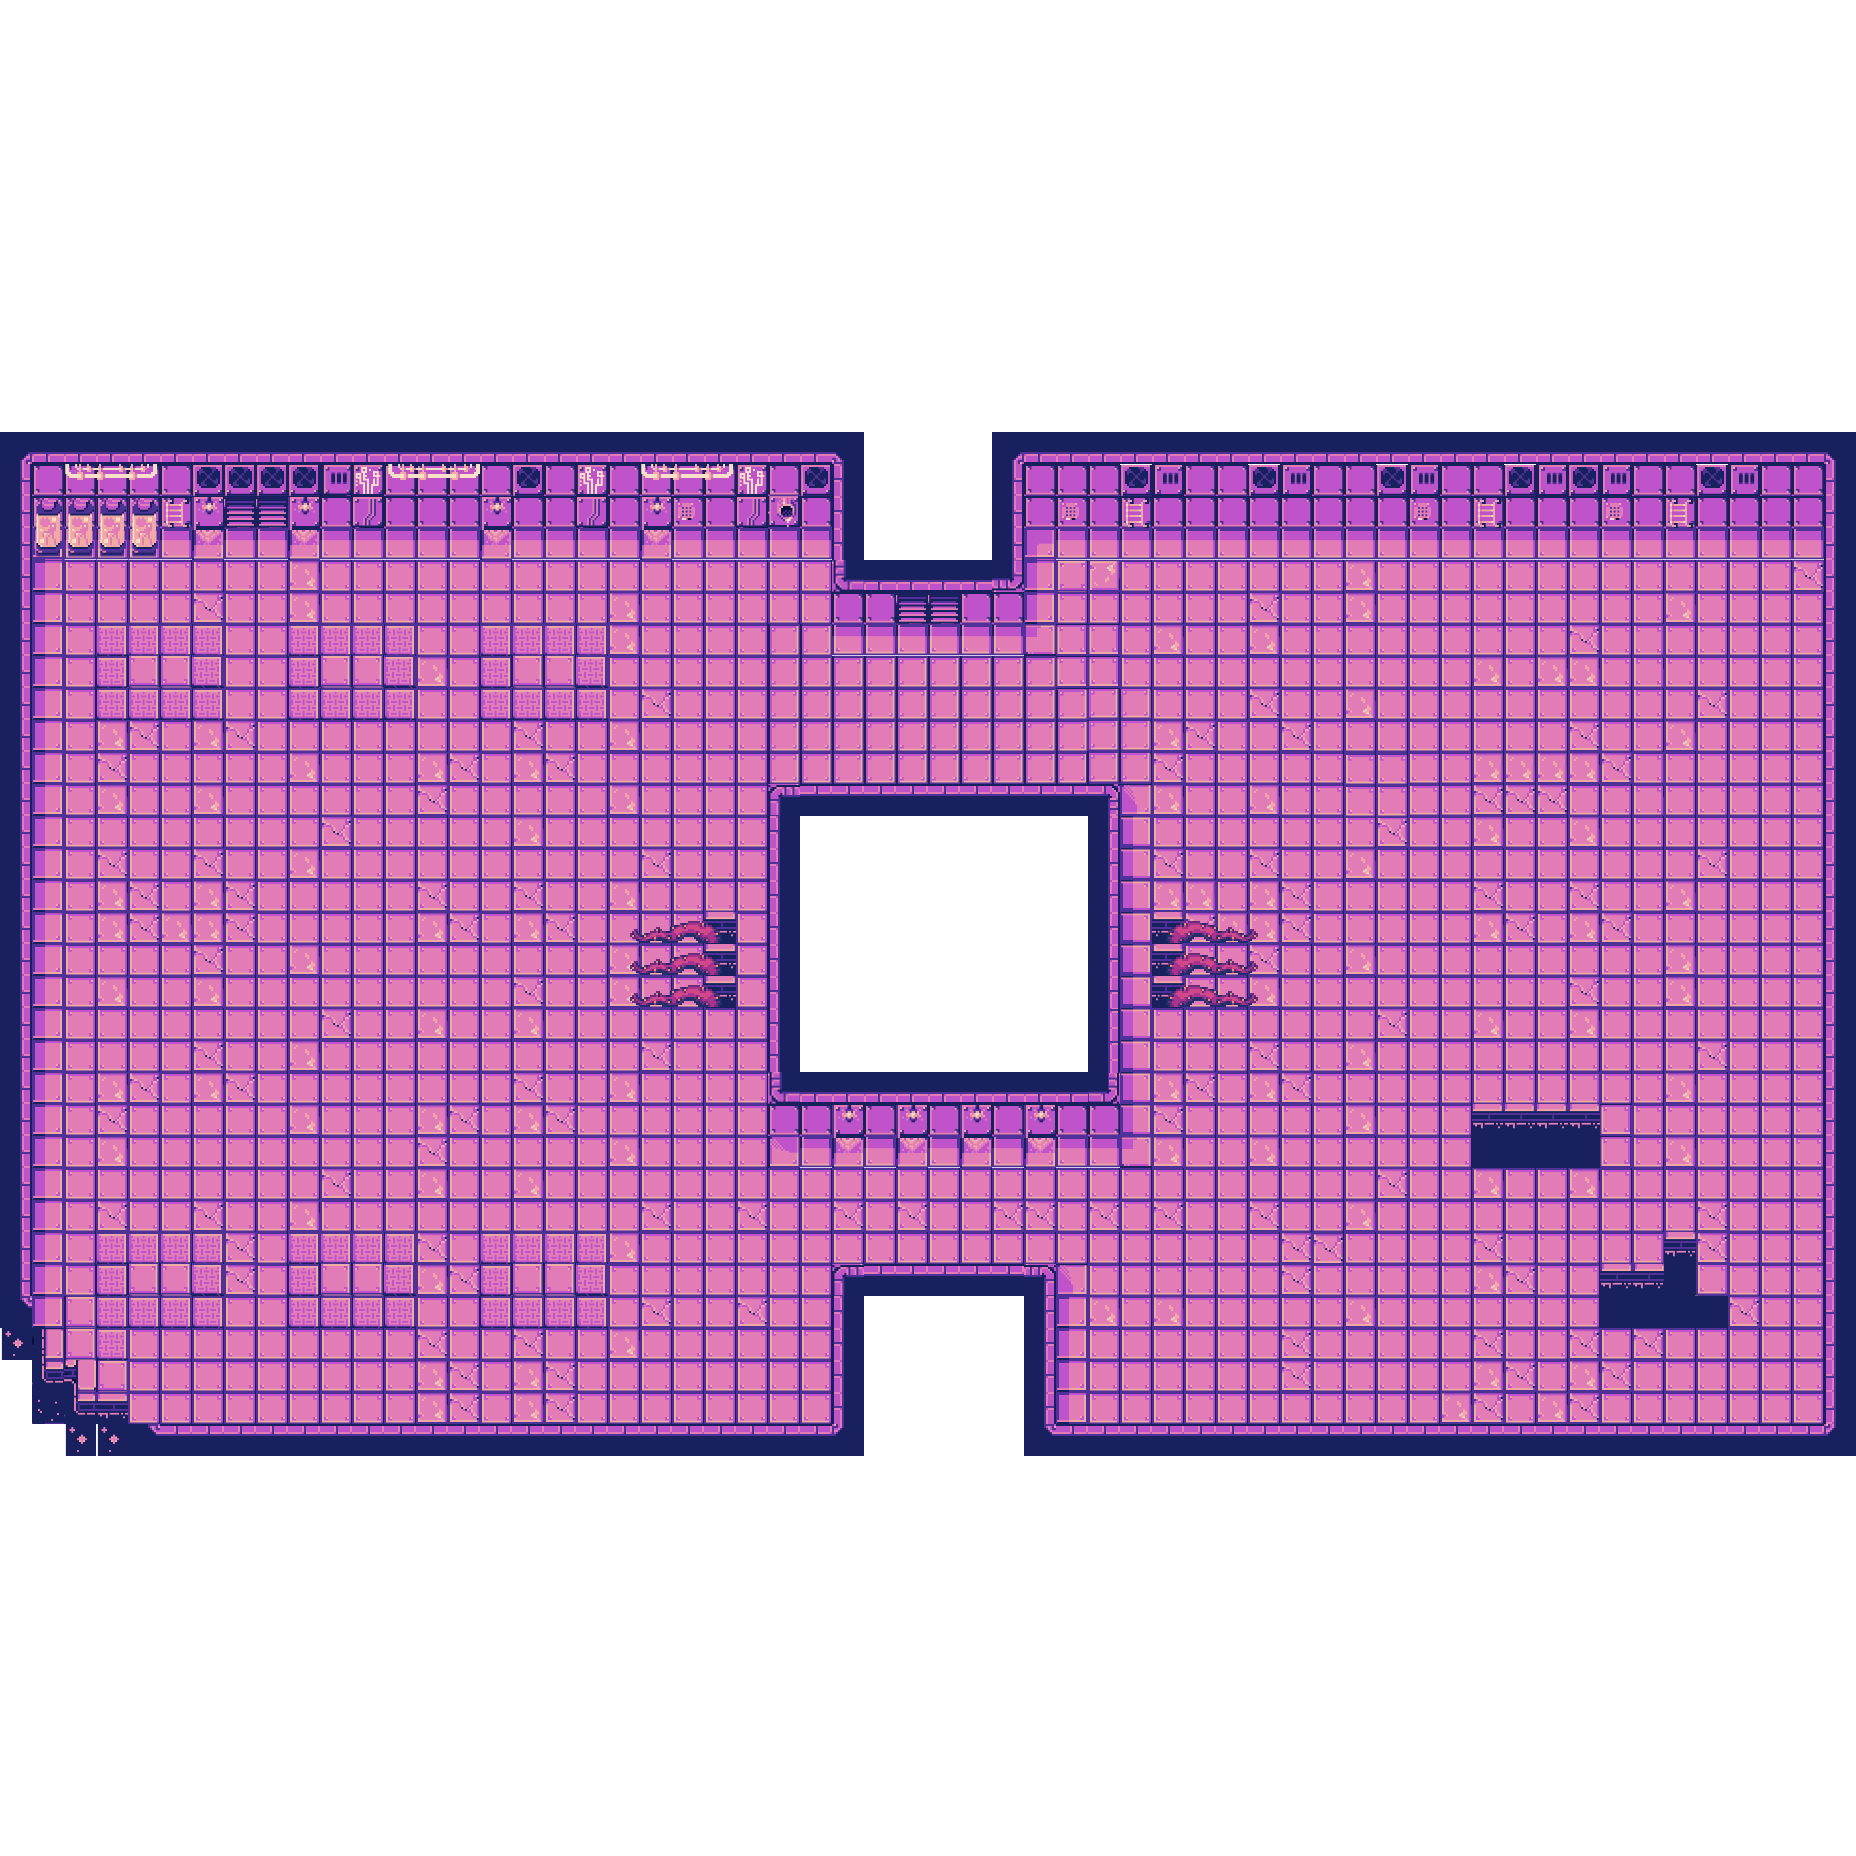
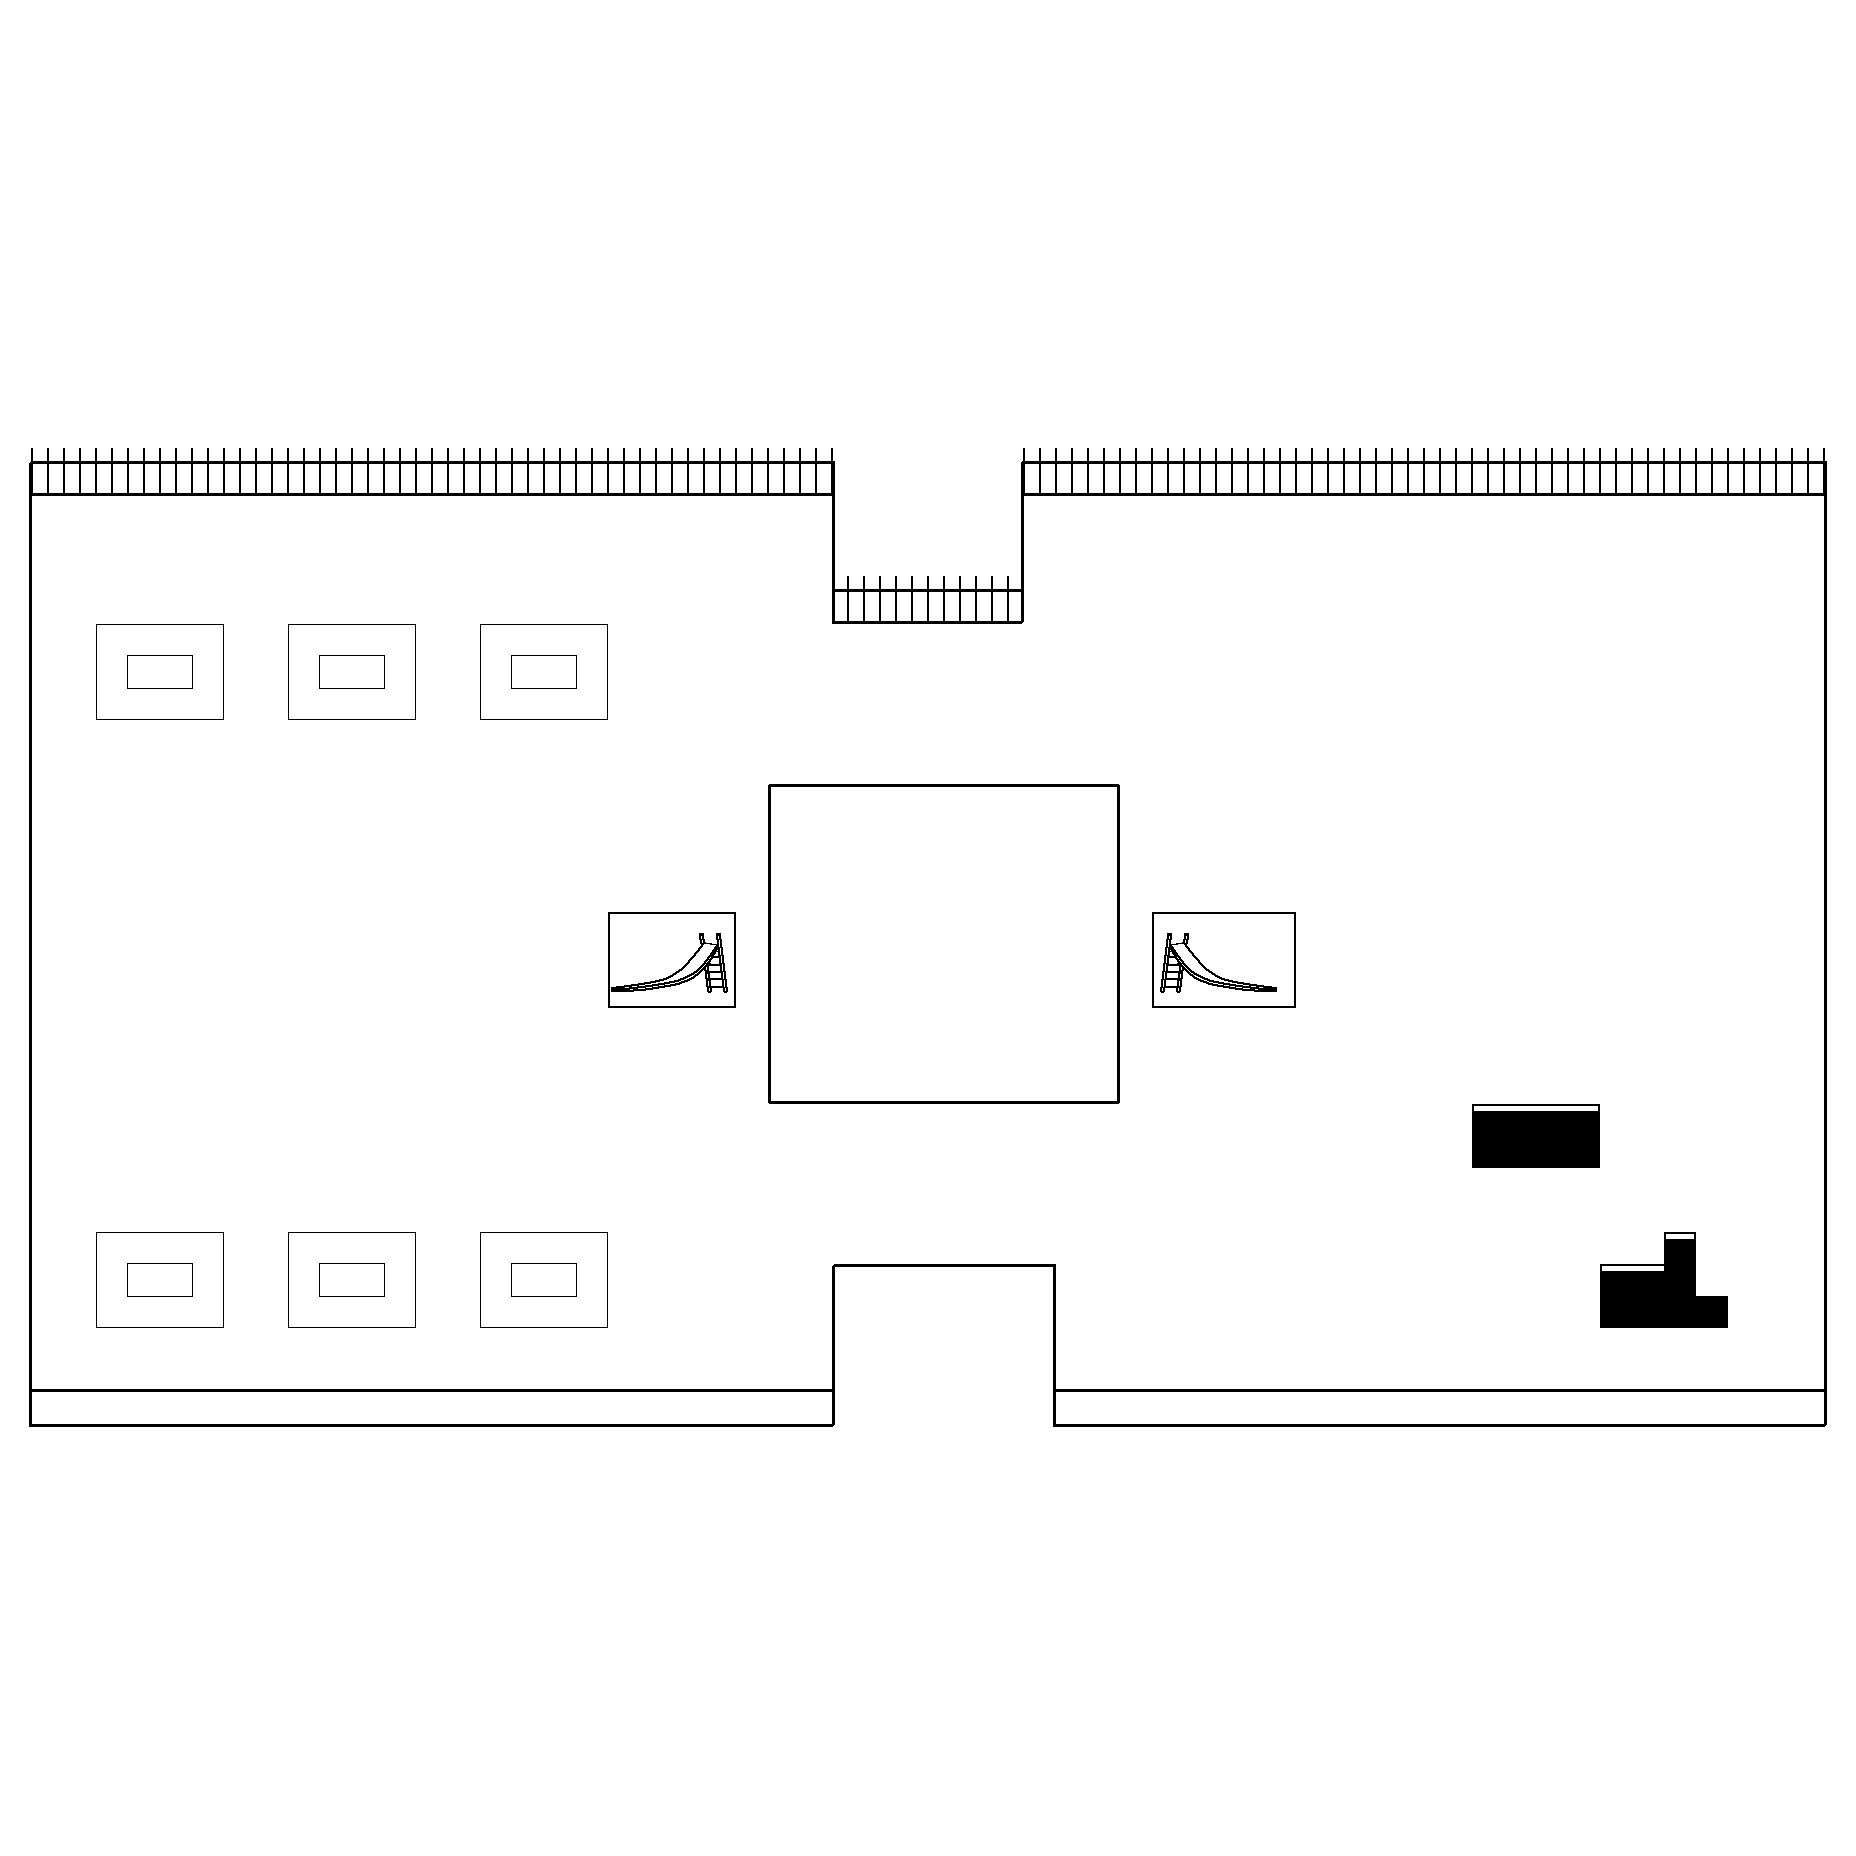
changing map to mfers

diff --git a/frontend/Source/Levels/Await.ts b/frontend/Source/Levels/Await.ts
@@ -16,9 +16,10 @@ import { GameStatus, Listener, msgTypes, ServerMsg } from "../Clients/Interfaces
 import { Logger } from "../Utils/Logger";
 import { Resource } from "../Core/AssetLoader";
 import { EngineContext } from "../Core/Interfaces";
+import { MAIN_BG_COLOR } from "../Constants/Constants";
 
 // Await level bg color
-const BLACK_BG_COLOR = 0x18215d;
+//const BLACK_BG_COLOR = 0x18215d;
 
 
 class AwaitLevel extends Level {
@@ -83,7 +84,7 @@ class AwaitLevel extends Level {
         );
 
         // Sets bg color of main app
-        this.context.app.renderer.backgroundColor = BLACK_BG_COLOR;
+        this.context.app.renderer.backgroundColor = MAIN_BG_COLOR;
 
         // Connect background layer
         

diff --git a/frontend/Source/Layers/Lobby/IntroSequence.ts b/frontend/Source/Layers/Lobby/IntroSequence.ts
@@ -29,6 +29,7 @@ class IntroSequence {
         fontName: "DealersSolid",
         align: "center",
         fontSize: 400,
+        tint: 0x000
     };
 
     constructor (app: Application, playerLayer:PlayerLayer, overlay:OverlayMap, viewLayer:ViewLayer, resource: Record<string, any>) {

diff --git a/frontend/Source/Constants/Constants.ts b/frontend/Source/Constants/Constants.ts
@@ -14,7 +14,7 @@ const LOGGER_LEVEL = Number("0b" + process.env.LOGGER_LEVEL);
 const ROOT_DIV_ID = "#root";
 
 // Default background color
-const MAIN_BG_COLOR = 0x18215d;
+const MAIN_BG_COLOR = 0xFFFFFF;
 
 // Container's dimesnsion
 const CONTAINER_DIM_X = 1856;
